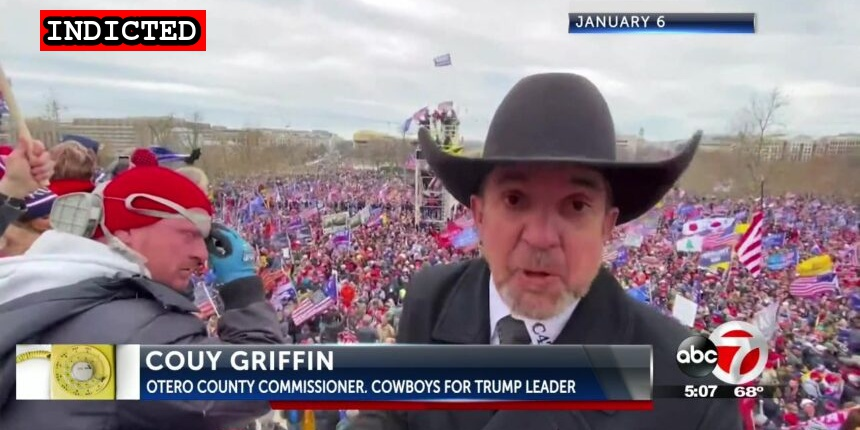
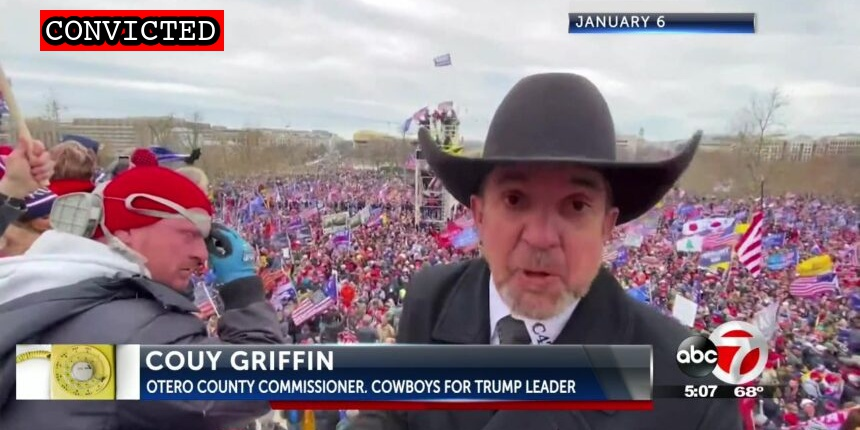
Griffin conviction

Changed region(s): [[0.0302, 0.0, 0.2721, 0.1209]]

diff --git a/docs/_suspects/couy-griffin.md b/docs/_suspects/couy-griffin.md
@@ -4,15 +4,15 @@ lastName: Griffin
 hashtag: CouyGriffin
 aka:
 residence: New Mexico
-status: Indicted
+status: Convicted
 date: 2021-01-17
 charged: 2021-01-17
 indicted: 2021-02-08
-convicted:
+convicted: 2022-03-22
 sentenced:
 dismissed:
 deceased:
-plea_hearing:
+plea_hearing: 2022-03-22
 sentencing:
 age: 47
 occupation: County Commissioner
@@ -34,8 +34,13 @@ published: true
 caseNumber: 1:21-cr-92
 videos:
 charges:
+  - code: 18 USC § 1752(a)(1)
+    title: Entering a restricted building or grounds
+    url: https://www.law.cornell.edu/uscode/text/18/1752
+    felony: false
 sentence:
 ---
+
 - [News Report](https://www.thedailybeast.com/cowboys-for-trump-leader-couy-griffin-arrested-by-fbi-for-capitol-riot-threat-to-bring-guns-to-inauguration?via=twitter_page)
 - [Perp Walk (Image)](/images/after/couy-griffin.png)
 - [Perp Walk (VIDEO)](https://www.nbcwashington.com/news/local/new-mexico-county-commissioner-arrested-in-dc-for-involvement-in-capitol-riot/2544645/)
